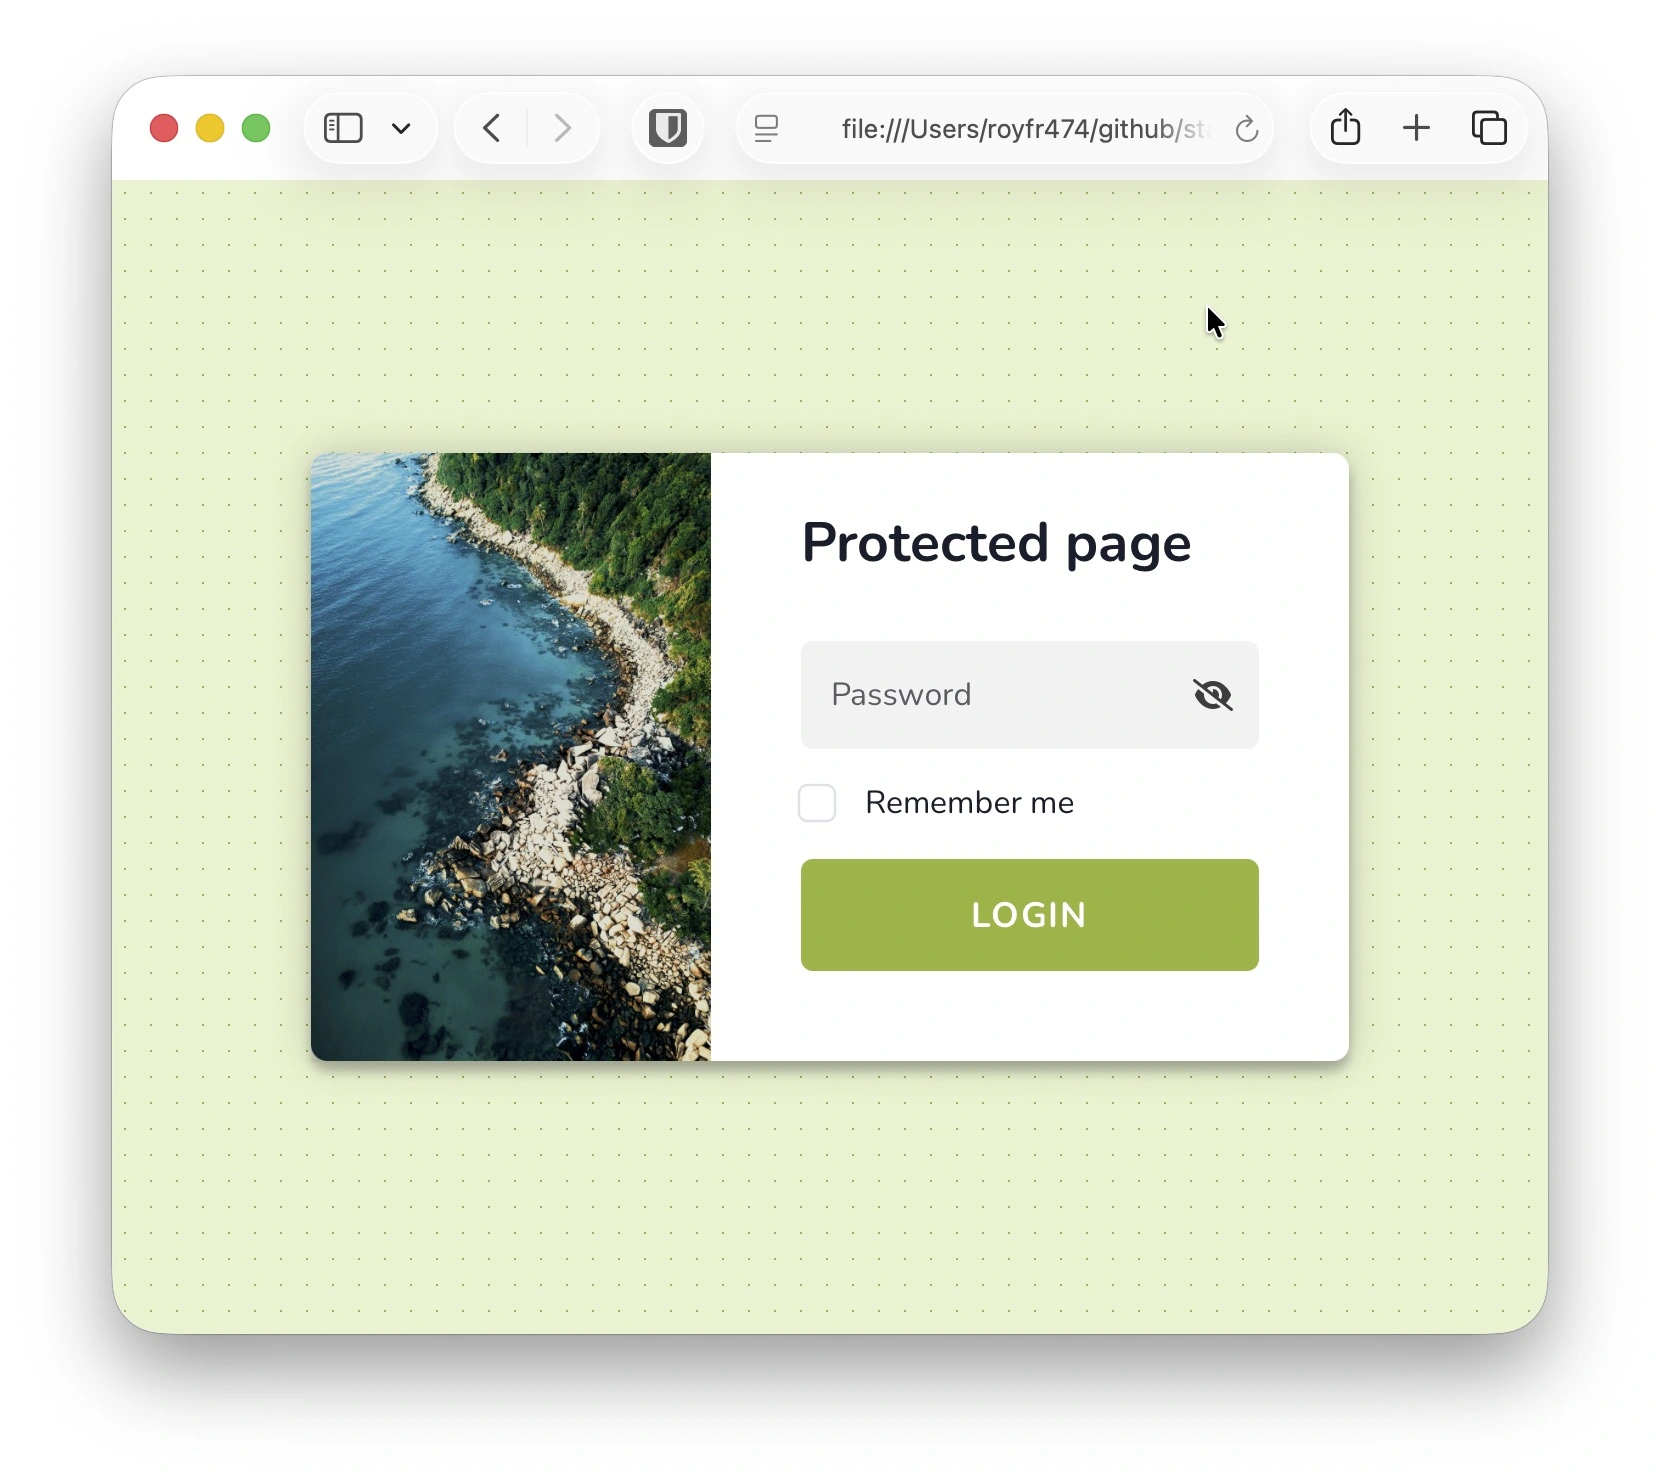
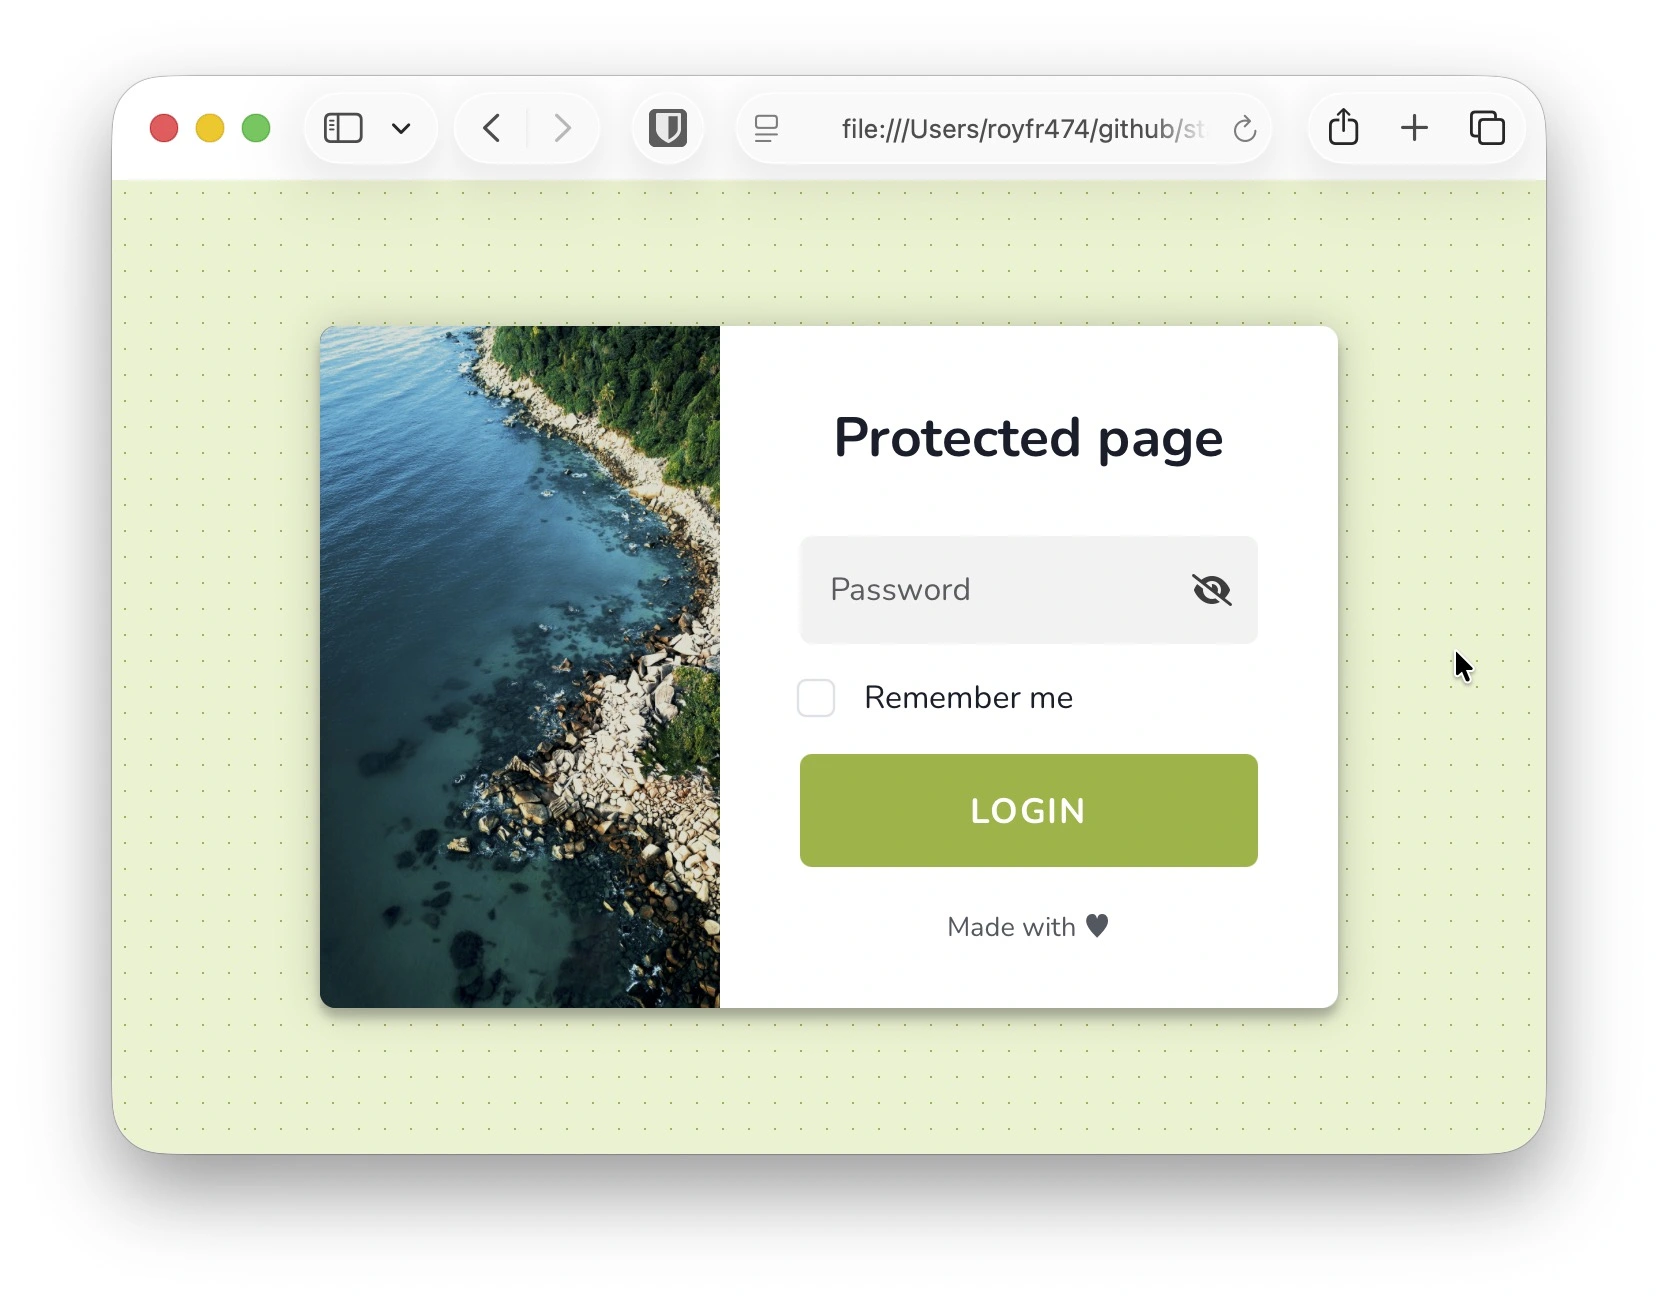
Updated documentation

diff --git a/docs/guide.md b/docs/guide.md
@@ -159,9 +159,9 @@ Change the error message shown on incorrect password
 staticrypt index.html -p mylongpassword --template-error 'Bad password! Please try again.'
 ```
 
-**Password placeholder**
-
 ![](/images/bad-password.webp)
+
+**Password placeholder**
 
 Change placeholder text for password input
 
@@ -227,6 +227,20 @@ staticrypt index.html -p mylongpassword --template-subtitle "<svg width='30' hei
 
 ![](/images/github.webp)
 
+**Footer Text**
+
+Add a compact footer with optional link below the form. This is great for "About" blurbs, repository links, or attribution notes.
+
+```bash
+staticrypt index.html -p mylongpassword \
+    --template-footer "Made with ♥" \
+    --template-footer-link https://github.com/royfrancis/staticrypt
+```
+
+![](/images/image-left.webp)
+
+If you omit `--template-footer-link`, the text stays plain. Passing only the link prints a warning and ignores the URL until a footer message is supplied.
+
 **Hero / Brand Image**
 
 Add a hero or brand image to the login card. `--template-image` accepts a local path or absolute URL. Combine it with `--template-image-position`, `--template-image-height`, `--template-image-width`, and `--template-image-focus` to fine-tune the layout. `--template-image-position` can take options 'top' or 'left'. Height and width if not set defaults to (top: 60px × 100%, left: 100% × 120px). `--template-image-focus` tweaks the CSS `object-position` (default `center`) so you can shift the crop focus.
@@ -248,12 +262,14 @@ staticrypt index.html -p mylongpassword \
 ![](/images/image-left.webp)
 
 ```bash
-# Using a remote image URL, custom width and focus
+# Using a remote image URL, custom width, focus and footer
 staticrypt index.html -p mylongpassword \
     --template-image https://images.pexels.com/photos/4716089/pexels-photo-4716089.jpeg \
     --template-image-position left \
     --template-image-width 200px \
-    --template-image-focus "top left"
+    --template-image-focus "top left" \
+    --template-footer "Made with ♥" \
+    --template-footer-link https://github.com/royfrancis/staticrypt
 ```
 
 ![](/images/image-url.webp)

diff --git a/docs/reference.md b/docs/reference.md
@@ -45,5 +45,7 @@ This section details all available command-line flags for the StatiCrypt tool.
 | `--template-page-title <text>` | Document `<title>`; falls back to template title.
 | `--template-subtitle <text>` | Optional subtitle under the title.
 | `--template-subtitle-link <url>` | Link applied to the subtitle (ignored when subtitle text is empty).
+| `--template-footer <text>` | Small footer text rendered below the form.
+| `--template-footer-link <url>` | Link applied to the footer (ignored when footer text is empty).
 | `--template-toggle-show <text>` | Accessible label for the "show password" action.
 | `--template-toggle-hide <text>` | Accessible label for the "hide password" action.
